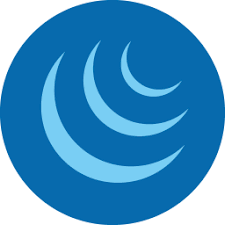
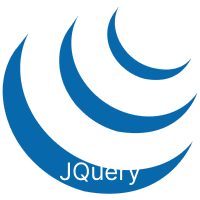
fix : JQuery, BootStrap 추가

diff --git a/src/app/projects/page.js b/src/app/projects/page.js
@@ -5,24 +5,19 @@ import React, {useState} from 'react';
 //project data 추후 백엔드로 변경
 const srcArr = [
     './img/project/MusicWeb.png', 
-    './img/project/Plant.png',
     './img/project/Chatting.png',
     './img/project/DMCSite.png',
-    './img/project/DMCAPP.png',
-    './img/project/dadok.png'
+    './img/project/DMCAPP.png'
 ];
 
 const altArr = [
     '음악사이트',
-    '식물사전앱',
     '채팅',
     'DMCSite',
-    'DMCAPP',
-    'DadokDadok'
+    'DMCAPP'
 ];
 
-const data = () => {
-    return [ 
+const data = [ 
         {
             'id' : 1,
             'title' : 'Music Web',
@@ -32,15 +27,7 @@ const data = () => {
             'url': 'https://wogur2689.github.io/MusicWeb'
         },
         {
-            'id' : 2, 
-            'title' : 'plant app',
-            'outline' : '식물을 촬영해서 어떤 식물인지 알아내는 어플',
-            'skill' : 'Android, kotlin, Figma',
-            'period': '2022.08 ~ 2022.10 (3개월)',
-            'url': 'https://github.com'
-        },
-        {
-            'id' : 3,
+            'id' : 2,
             'title' : 'chatting',
             'outline' : 'redis 사용법과 소켓 통신을 경험하고 싶어 만든 채팅',
             'skill' : 'Spring boot, ws-stomp, JQuery, sockjs, thymeleaf, websocket, redis',
@@ -48,31 +35,22 @@ const data = () => {
             'url': 'https://github.com'
         },
         {
-            'id' : 4,
+            'id' : 3,
             'title' : 'DMC Site',
             'outline' : 'DMC App을 만든 팀으로 우리 팀을 소개하기 위해 개발된 팀프로젝트 사이트',
             'skill' : 'Spring boot, mysql, React, Pigma, github pages',
             'period': '2022.10 ~ 2022.12 (3개월)',
-            'url': 'https://github.com'
+            'url': 'https://kangminna.github.io/MonthlyCoding_Web/'
         },
         {
-            'id' : 5,
+            'id' : 4,
             'title' : 'DMC App',
             'outline' : '동양미래대학교를 졸업한 선배로서 학교생활에 대한 정보를 제공하는 팀프로젝트 어플',
             'skill' : 'Spring boot, firebase, React, Pigma, android, kotlin',
             'period': '2023.01 ~ 2023.10 (9개월)',
-            'url': 'https://github.com'
-        },
-        {
-            'id' : 6,
-            'title' : 'dadok dadok',
-            'outline' : '독서 완독을 장려하는 팀프로젝트 사이트',
-            'skill' : 'Spring boot, mysql, swagger, JUnit, Pigma',
-            'period': '2024.02 ~ 2024.08 (7개월)',
-            'url': 'https://github.com'
-        },
-    ]
-}
+            'url': 'https://play.google.com/store/apps/details?id=com.monthlycoding.dmc2'
+        }
+    ];
 
 //init
 const initProjects = (open) => {
@@ -81,7 +59,7 @@ const initProjects = (open) => {
         result.push(
             <div key={index} className={styles.project}>
                 <img src={srcArr[index]} alt={altArr[index]}/>
-                <span><a onClick={(e) => {e.preventDefault(); open(index + 1)}}>{data()[index].title}</a></span>
+                <span><a onClick={(e) => {e.preventDefault(); open(index + 1)}}>{data[index].title}</a></span>
             </div>
         );
     }
@@ -92,7 +70,7 @@ const initProjects = (open) => {
 
 //popup
 const Alert = ({id, open, close}) => {
-    const projectData = data().find(project => project.id == id);
+    const projectData = data.find(project => project.id == id);
 
     if (!projectData) {
         return null; // 해당 id에 맞는 프로젝트가 없을 경우 모달을 표시하지 않음

diff --git a/pub/index.html b/pub/index.html
@@ -88,6 +88,12 @@
               <div class="skill">
                 <img src="./img/FrontEnd.png" alt="react">
               </div>
+              <div class="skill">
+                <img src="./img/JQuery.png" alt="JQuery">
+              </div>
+              <div class="skill">
+                <img src="./img/bootstrap.png" alt="bootstrap">
+              </div>
             </div>
             <div class="skillset">
               <div class="skill">
@@ -107,10 +113,6 @@
                 <span><a href="javascript:void(0)" onclick="openModal()">Music Web</a></span>
               </div>
               <div class="project">
-                <img src="./img/project/Plant.png" alt="식물사전앱">
-                <span><a href="javascript:void(0)">Plant App</a></span>
-              </div>
-              <div class="project">
                 <img src="./img/project/Chatting.png" alt="Chatting">
                 <span><a href="javascript:void(0)">Mini Chatting</a></span>
               </div>
@@ -121,10 +123,6 @@
               <div class="project">
                 <img src="./img/project/DMCAPP.png" alt="DMCAPP">
                 <span><a href="javascript:void(0)">DMC App</a></span>
-              </div>
-              <div class="project">
-                <img src="./img/project/dadok.png" alt="Dadok Dadok">
-                <span><a href="javascript:void(0)">Dadok Dadok</a></span>
               </div>
             </div>
             <!-- model popup -->

diff --git a/src/app/skills/page.js b/src/app/skills/page.js
@@ -34,6 +34,12 @@ export default function Skills() {
                 <div className={styles.skill}>
                     <img src="./img/FrontEnd.png" alt="react" />
                 </div>
+                <div className={styles.skill}>
+                    <img src="./img/JQuery.png" alt="jquery" />
+                </div>
+                <div className={styles.skill}>
+                    <img src="./img/bootstrap.png" alt="bootstrap" />
+                </div>
             </div>
             <div className={styles.skillset}>
                 <div className={styles.skill}>

diff --git a/src/app/projects/projects.module.css b/src/app/projects/projects.module.css
@@ -87,8 +87,8 @@
     margin: auto;
     padding: 20px;
     border: 1px solid #888;
-    width: 1000px;
-    height: 600px;
+    width: 700px;
+    height: 400px;
     top: 50%;
     left: 50%;
     transform: translate(-50%, -50%);
